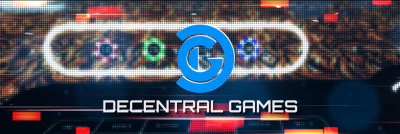
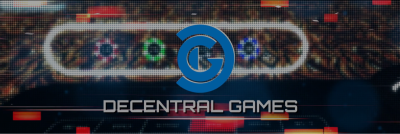
fix spining position

diff --git a/client/src/components/additional.css b/client/src/components/additional.css
@@ -1101,8 +1101,8 @@ div.progressbar .row, div.progressbar2 .row {
 .logospin {
   display: block;
   width: 100px;
-  margin-left: calc((100vw - 200px) / 2);
-  margin-top: calc((100vh - 200px) / 2);
+  margin-left: calc((100vw - 100px) / 2);
+  margin-top: calc((100vh - 100px) / 2);
 }
 .sk-fading-circle {
   margin: calc(50vh - 120px) 50%;
